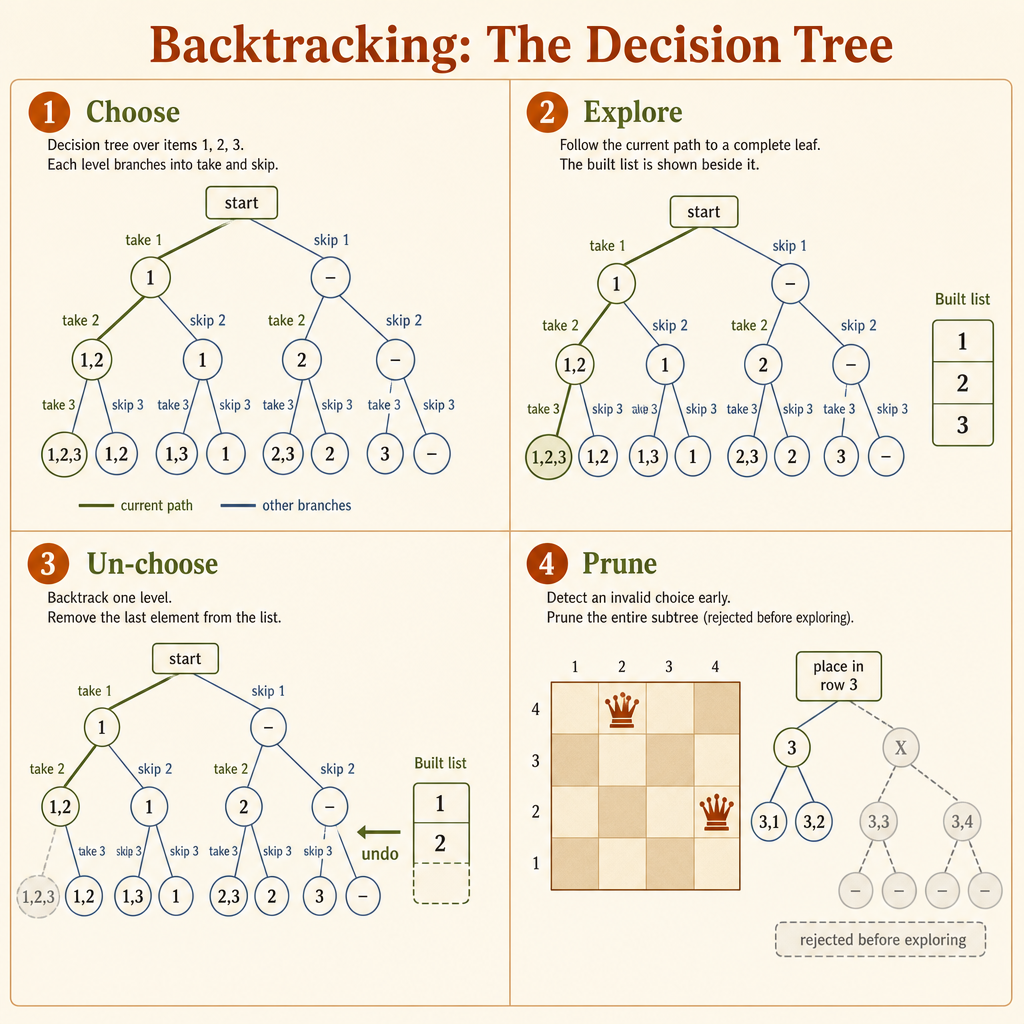
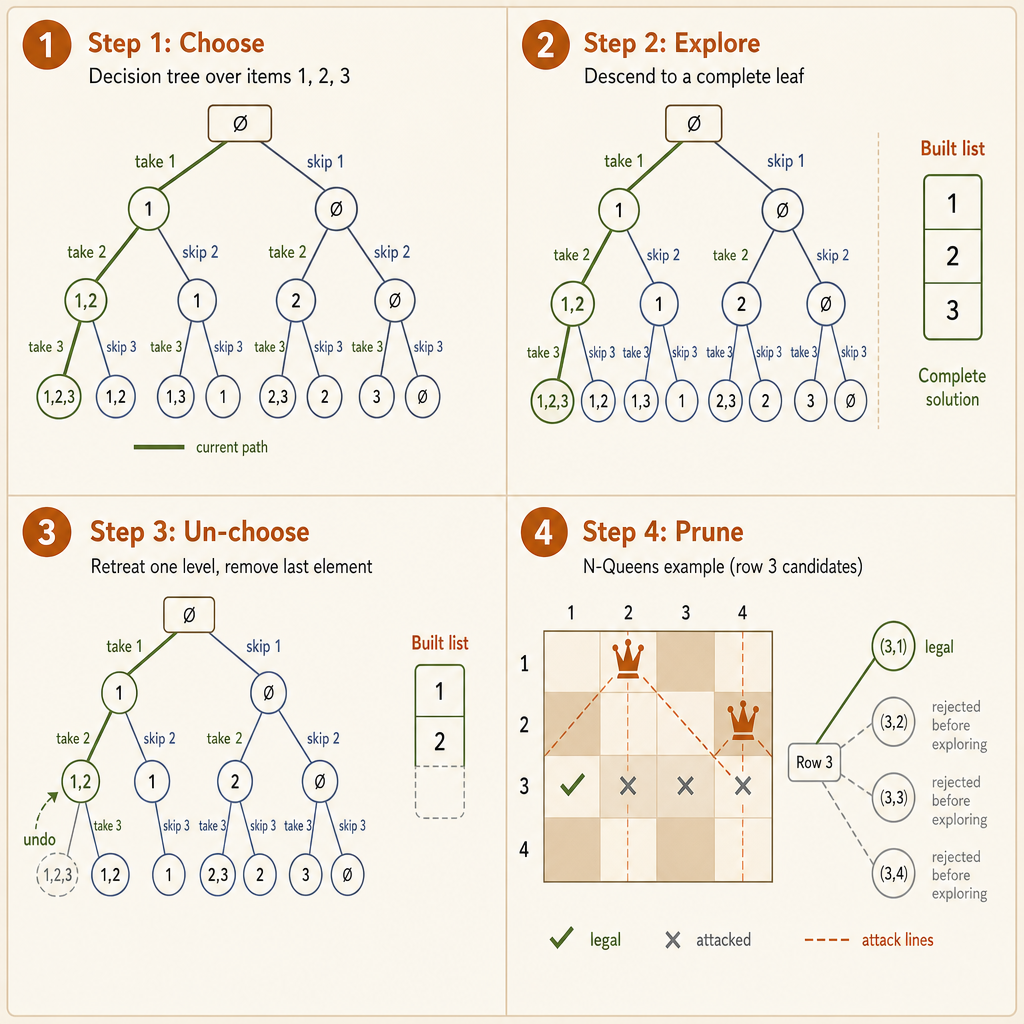
Fix the base-case diagnosis and the N-queens prune figure
Two review fixes on the Recursion course:

- `rec-fix-the-base-case` misdiagnosed the scaffold's bug. With the stated
  recursive case, `n === 0 -> 0` gives the right answer for every positive
  input; the only wrong result is `countDigits(0)`. Reword both language
  variants (and the exercise title) to say that the base case describes an
  exhausted input rather than an answer. The suggested fix and expected
  outputs are unchanged.

- The `rec-backtracking` figure's Prune panel showed a board where the
  candidates marked viable were in fact attacked. Pin the placement in the
  generator prompt — queens at (1,2) and (2,4), so row 3 column 1 is the
  only legal square — and regenerate the PNG.

Claude-Session: https://claude.ai/code/session_01VAggefC5PzTNCYTKHAeroM

Changed region(s): [[0.0, 0.0, 1.0, 1.0], [0.6562, 0.9062, 0.75, 0.9375], [0.5312, 0.9062, 0.5938, 0.9375]]

diff --git a/src/lib/lessons/recursion/foundations.ts b/src/lib/lessons/recursion/foundations.ts
@@ -386,20 +386,20 @@ print(sum_to(-3))  # expected: 0
       },
       {
         id: "rec-fix-the-base-case",
-        title: "Fix a base case that never fires",
+        title: "Fix a base case that answers the wrong question",
         instructions: {
           typescript: `\`countDigits(n)\` should return how many digits a non-negative integer has (\`0\` has one digit, \`4821\` has four).
 
-The scaffold's base case is wrong in the classic way: it stops at \`n === 0\`, but the recursive step \`Math.floor(n / 10)\` reaches 0 *before* the last digit has been counted — and for the input 0 itself it would count zero digits.
+The scaffold's base case describes an *exhausted input* rather than an answer: \`n === 0\` returns 0, which is right for the recursion — the digits ran out — but wrong for the input 0 itself, which has one digit. Guard the single-digit case (\`n < 10\`) instead, so the base case answers a real question.
 
-Fix the base case (a single-digit number is one digit) and add the recursive case.
+Make that fix and add the recursive case.
 
 **Expected output:** \`4\`, \`1\`, \`1\`.`,
           python: `\`count_digits(n)\` should return how many digits a non-negative integer has (\`0\` has one digit, \`4821\` has four).
 
-The scaffold's base case is wrong in the classic way: it stops at \`n == 0\`, but the recursive step \`n // 10\` reaches 0 *before* the last digit has been counted — and for the input 0 itself it would count zero digits.
+The scaffold's base case describes an *exhausted input* rather than an answer: \`n == 0\` returns 0, which is right for the recursion — the digits ran out — but wrong for the input 0 itself, which has one digit. Guard the single-digit case (\`n < 10\`) instead, so the base case answers a real question.
 
-Fix the base case (a single-digit number is one digit) and add the recursive case.
+Make that fix and add the recursive case.
 
 **Expected output:** \`4\`, \`1\`, \`1\`.`,
         },
